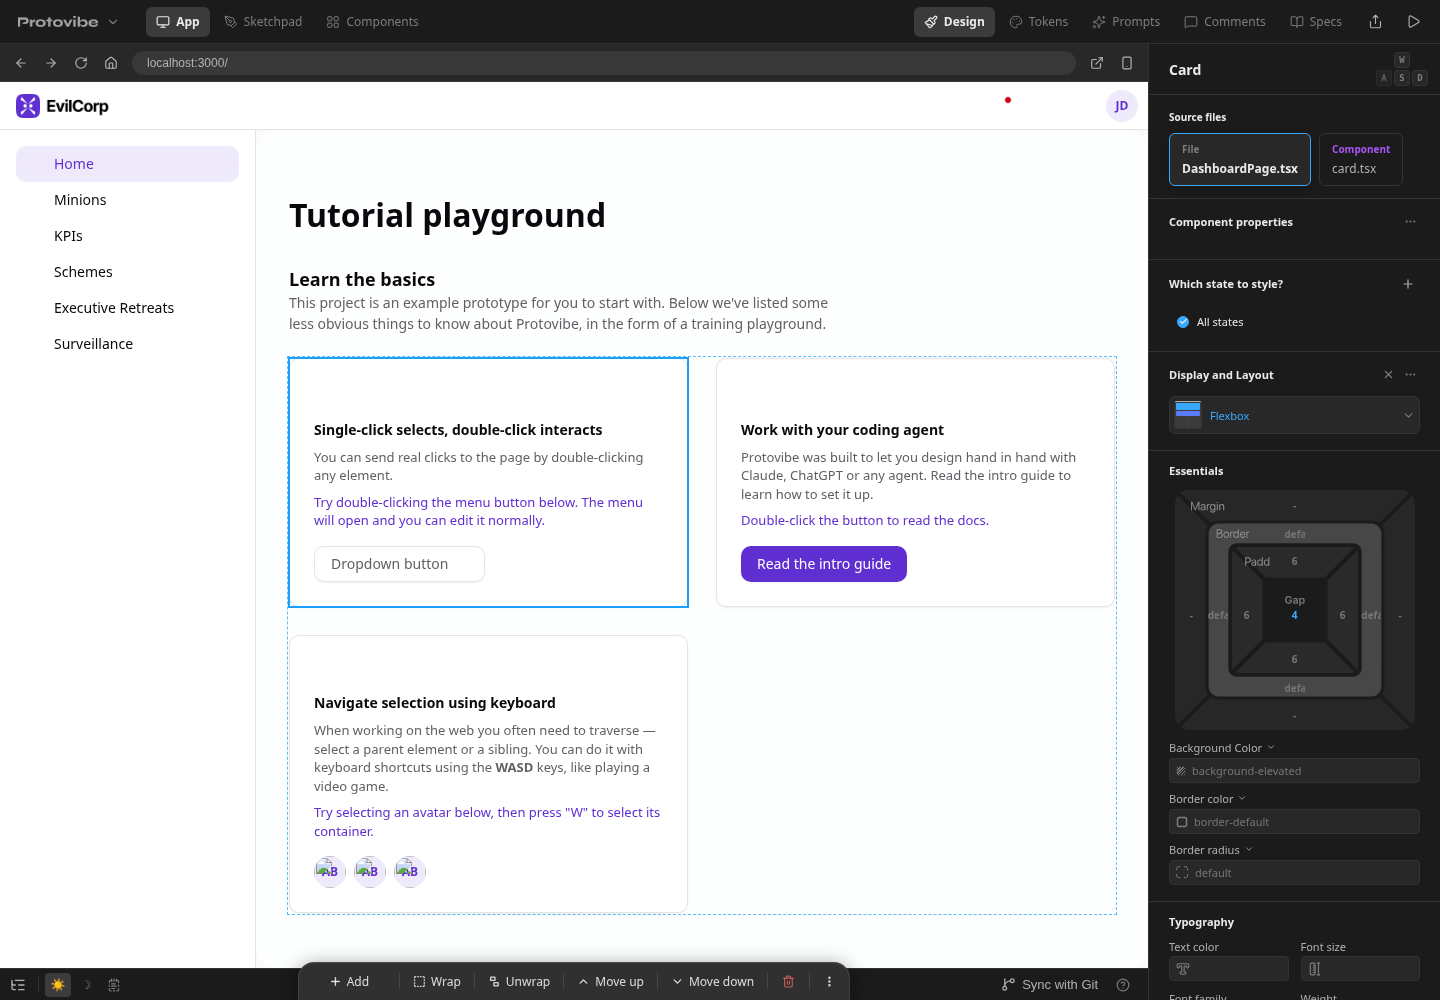
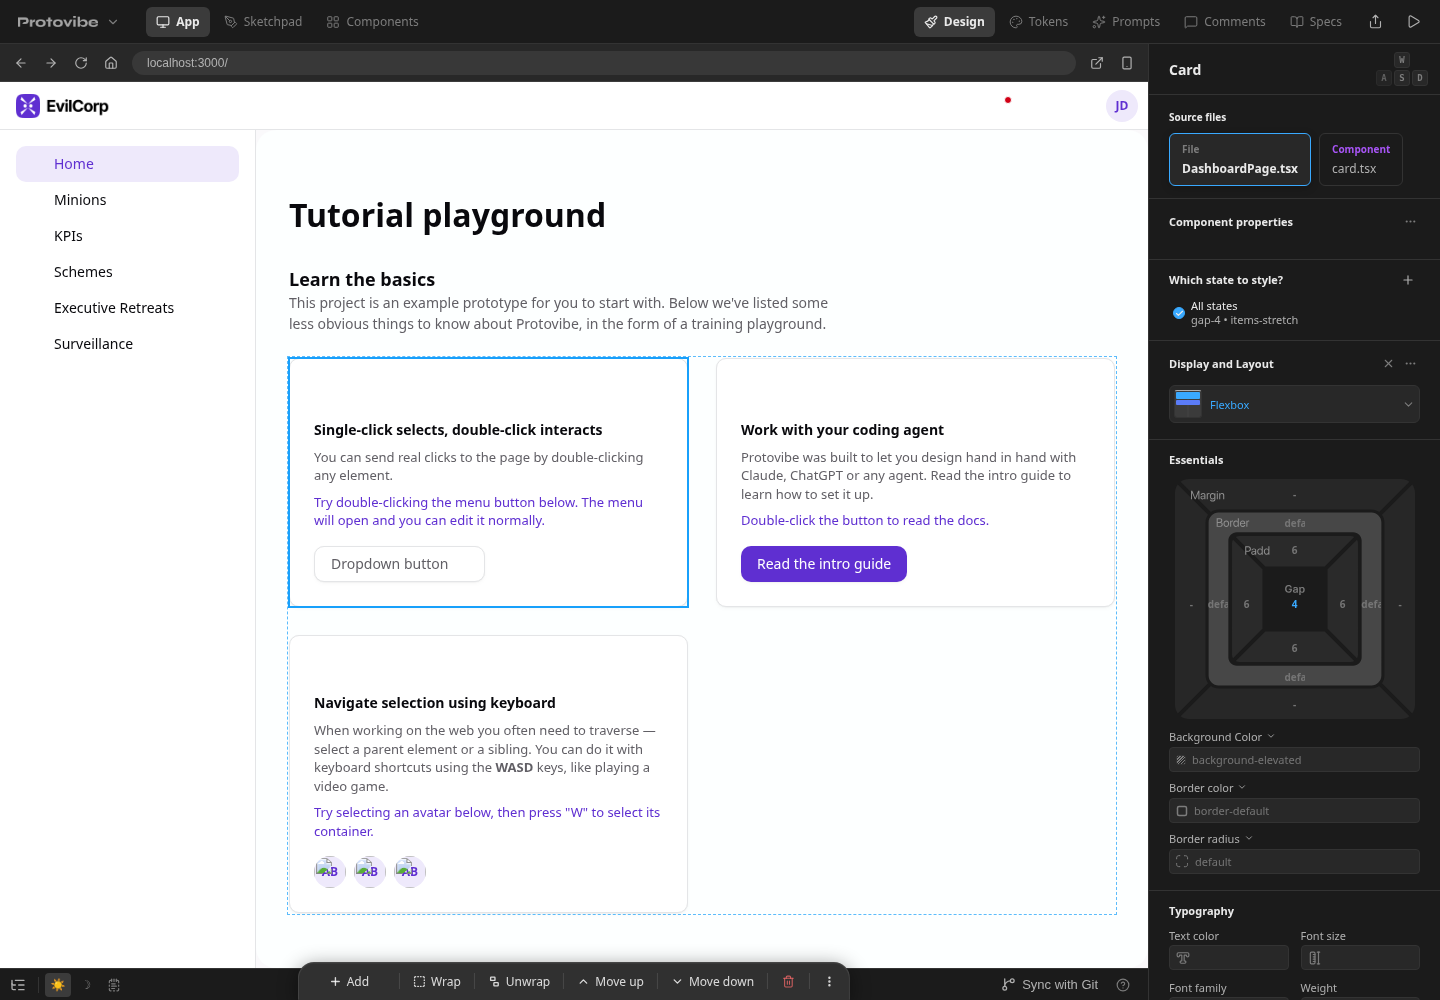
Condense state options and preserve shorthand style summaries

diff --git a/protovibe-project-template/plugins/protovibe/src/ui/components/Modifiers.tsx b/protovibe-project-template/plugins/protovibe/src/ui/components/Modifiers.tsx
@@ -173,8 +173,8 @@ export const Modifiers: React.FC = () => {
   if (!activeData) return null;
 
   return (
-    <div style={{ borderTop: `1px solid ${theme.border_default}`, padding: '12px 20px 16px' }}>
-      <div ref={fieldRef} style={{ display: 'flex', alignItems: 'center', justifyContent: 'space-between', color: theme.text_default, fontSize: '11px', lineHeight: '20px', fontWeight: '600', marginBottom: '8px' }}>
+    <div style={{ borderTop: `1px solid ${theme.border_default}`, padding: '8px 20px 10px' }}>
+      <div ref={fieldRef} style={{ display: 'flex', alignItems: 'center', justifyContent: 'space-between', color: theme.text_default, fontSize: '11px', lineHeight: '20px', fontWeight: '600', marginBottom: '4px' }}>
         Which state to style?
         <button
           type="button"
@@ -193,8 +193,8 @@ export const Modifiers: React.FC = () => {
       </div>
 
       {/* ── Existing Modifiers List ── */}
-      <div role="radiogroup" aria-label="Which state to style?" style={{ marginTop: '12px', display: 'flex', flexDirection: 'column', gap: '2px' }}>
-          {[{ modifiers: [], classes: [], count: 0 }, ...matchingGroups, ...(showMore ? otherGroups : [])].map((group) => {
+      <div role="radiogroup" aria-label="Which state to style?" style={{ display: 'flex', flexDirection: 'column' }}>
+          {[{ modifiers: [], classes: flatClasses.filter(cls => parseModifiers(cls).modifiers.length === 0), count: 0 }, ...matchingGroups, ...(showMore ? otherGroups : [])].map((group) => {
             const label = group.modifiers.length ? group.modifiers.map(formatModifier).join(' & ') : 'All states';
             const SHOW = 2;
             const visibleClasses = group.classes.slice(0, SHOW);
@@ -210,6 +210,7 @@ export const Modifiers: React.FC = () => {
                 key={modifierKey(group.modifiers)}
                 type="button"
                 role="radio"
+                aria-label={label}
                 aria-checked={isActive}
                 tabIndex={isActive ? 0 : -1}
                 onKeyDown={event => {
@@ -243,7 +244,7 @@ export const Modifiers: React.FC = () => {
                   alignItems: 'center',
                   background: 'transparent',
                   border: 'none',
-                  padding: '6px 8px',
+                  padding: '3px 4px',
                   cursor: 'pointer',
                   textAlign: 'left',
                   borderRadius: '6px',
@@ -260,10 +261,10 @@ export const Modifiers: React.FC = () => {
                   (e.currentTarget.querySelector('[data-label-secondary]') as HTMLElement | null)?.style.setProperty('color', isActive ? theme.text_secondary : theme.text_low);
                 }}
               >
-                <span aria-hidden="true" style={{ display: 'flex', alignItems: 'center', justifyContent: 'center', width: '12px', height: '12px', boxSizing: 'border-box', borderRadius: '50%', border: `1px solid ${isActive ? theme.accent_default : theme.border_strong}`, background: isActive ? theme.accent_default : 'transparent', color: theme.text_default, marginRight: '8px', flexShrink: 0 }}>
+                <span aria-hidden="true" style={{ display: 'flex', alignItems: 'center', justifyContent: 'center', width: '12px', height: '12px', boxSizing: 'border-box', borderRadius: '50%', border: `1px solid ${isActive ? theme.accent_default : theme.border_strong}`, background: isActive ? theme.accent_default : 'transparent', color: theme.text_default, marginRight: '6px', flexShrink: 0 }}>
                   {isActive && <Check size={9} strokeWidth={3} />}
                 </span>
-                <span style={{ fontSize: '11px', color: theme.text_secondary, flex: 1, display: 'flex', flexDirection: 'column', gap: '2px' }}>
+                <span style={{ fontSize: '11px', color: theme.text_secondary, flex: 1, display: 'flex', flexDirection: 'column', lineHeight: '14px' }}>
                   <span data-label-primary style={{ color: isActive ? theme.text_default : theme.text_secondary }}>{label}</span>
                   {classesLabel && <span data-label-secondary style={{ color: isActive ? theme.text_secondary : theme.text_low, fontSize: '11px' }}>{classesLabel}</span>}
                 </span>
